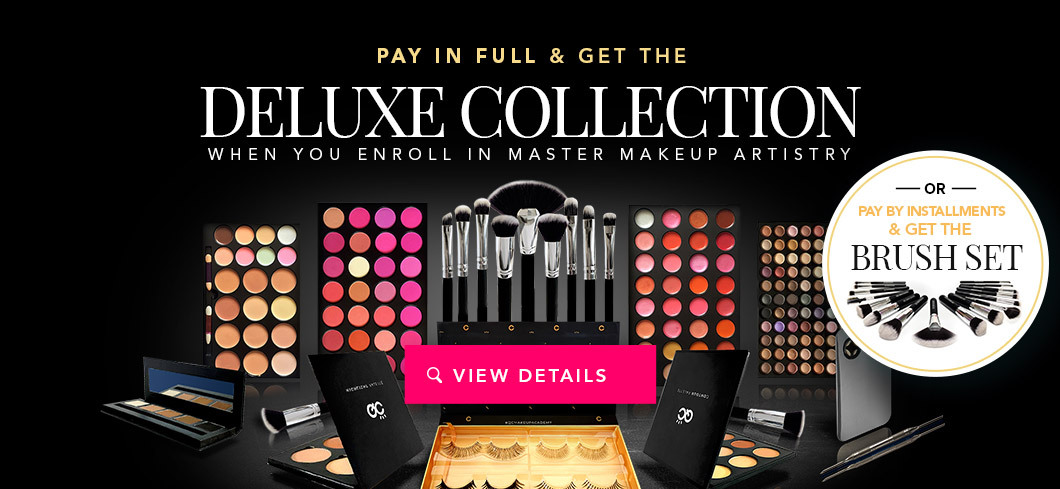
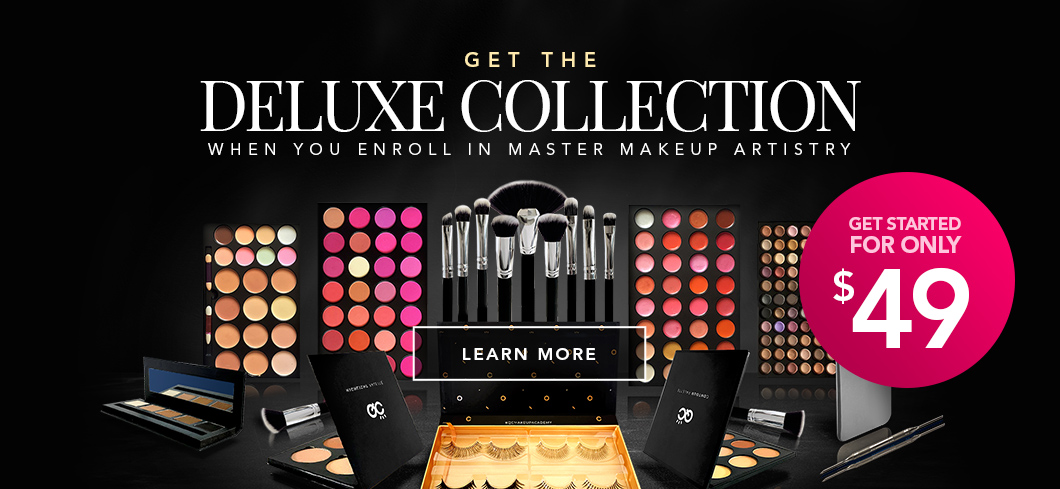
Change popup messages and graphics to show that all MZ students get the deluxe collection

diff --git a/src/pages/makeup/default/fallback/Promo.tsx b/src/pages/makeup/default/fallback/Promo.tsx
@@ -1,14 +1,17 @@
 import React, { ReactElement } from 'react';
 import { Modal, ModalBody, ModalFooter, ModalHeader } from 'reactstrap';
 
+import styles from '../../../../components/coloredList.module.css';
 import { usePopup } from '../../../../hooks/usePopup';
 import { useScreenWidthContext } from '../../../../hooks/useScreenWidthContext';
+import { useStateContext } from '../../../../hooks/useStateContext';
 
 const backgroundColor = 'black';
 
 export const MakeupFallbackPromo = (): ReactElement => {
   const screenWidth = useScreenWidthContext();
   const [ popup, togglePopup ] = usePopup(false);
+  const { price } = useStateContext();
 
   const desktop = screenWidth >= 576;
 
@@ -17,13 +20,13 @@ export const MakeupFallbackPromo = (): ReactElement => {
   let height: number;
 
   if (desktop) {
-    image = require('./desktop.jpg');
+    image = price?.currency.code === 'GBP' ? require('./desktop-uk.jpg') : require('./desktop.jpg');
     width = 1060;
     height = 489;
   } else {
-    image = require('./mobile.jpg');
+    image = price?.currency.code === 'GBP' ? require('./mobile-uk.jpg') : require('./mobile.jpg');
     width = 600;
-    height = 690;
+    height = 589;
   }
 
   return (
@@ -36,13 +39,29 @@ export const MakeupFallbackPromo = (): ReactElement => {
       <Modal isOpen={popup} toggle={togglePopup}>
         <ModalHeader toggle={togglePopup}>DELUXE Collection</ModalHeader>
         <ModalBody>
-          <p>Get the entire <strong>DELUXE Kit with 17-piece brush set</strong> when you enroll in <strong>Master Makeup Artistry</strong> and pay in full. Master Makeup Artist students who choose the installment plan will receive the <strong>17-piece brush set</strong>.</p>
+          <p>Get the entire <strong>DELUXE Kit with 17-piece brush set</strong> when you enroll in <strong>Master Makeup Artistry</strong>.</p>
           <p>Graduate as a Master International Makeup Professional™ (MIMP™) in just a few short months and build your beauty empire!</p>
-          <div style={{ display: 'flex', justifyContent: 'center' }}><img src={require('./enrollment-pop-up.jpg')} className="img-fluid" /></div>
+          <div style={{ display: 'flex', flexDirection: 'column', alignItems: 'center' }}>
+            <div>
+              <img src={require('../../../../images/deluxe-kit-numbers-no-description.jpg')} width="650" height="1056" className="img-fluid" />
+            </div>
+            <ol className={styles.coloredList}>
+              <li>17-piece professional brush set</li>
+              <li>88-shade eye shadow palette</li>
+              <li>32-shade lip palette</li>
+              <li>28-shade blush palette</li>
+              <li>20-shade conceal &amp; correct palette</li>
+              <li>9-shade contour palette</li>
+              <li>4-shade highlight palette</li>
+              <li>5-shade eyebrow palette</li>
+              <li>4 sets of faux lashes</li>
+              <li>Pro palette &amp; spatula</li>
+            </ol>
+          </div>
         </ModalBody>
         <ModalFooter>
           <p className="small">Your items will be automatically sent to you after you have submitted Unit A of the course in the Online Student Center. Items in the kit are subject to change.</p>
-          <p className="small mb-0">The DELUXE kit is not required for you to complete your assignments and will not determine your success in the course.</p>
+          <p className="small mb-0">The DELUXE Collection is not required for you to complete your assignments and will not determine your success in the course.</p>
         </ModalFooter>
       </Modal>
     </section>

diff --git a/src/components/Payment/VisualPaymentPlans/kits.tsx b/src/components/Payment/VisualPaymentPlans/kits.tsx
@@ -144,7 +144,7 @@ export const courseKits: CourseKit[] = [
         borderColor: '#999',
       },
       part: {
-        src: require('./images/mz/brush-set-384.jpg'),
+        src: require('./images/mz/deluxe-kit-white-384.jpg'),
         backgroundColor: 'white',
         buttonVariant: 'primary',
       },
@@ -152,23 +152,18 @@ export const courseKits: CourseKit[] = [
       buttonOffset: { xs: undefined, sm: undefined, md: 62, lg: 49, xl: 68 },
     },
     fullBullets: [ <strong key={0}>Bonus DELUXE Kit</strong>, <strong key={1}>Bonus 17-piece brush set</strong> ],
-    partBullets: [ <strong key={0}>Bonus 17-piece brush set</strong> ],
+    partBullets: [ <strong key={0}>Bonus DELUXE Kit</strong>, <strong key={1}>Bonus 17-piece brush set</strong> ],
     details: (
       <DetailsPopup
         title="Deluxe Collection" footerText={(
           <div className="text-start">
-            <p className="small"><span className="text-primary">*</span> Deluxe Collection shipping schedule:</p>
-            <ul className="small">
-              <li><p>Students who choose the Pay-in-Full option will receive the entire Deluxe Collection after submitting Unit A.</p></li>
-              <li><p>Students who choose the Installment Plan will receive the 17-piece brush set after submitting Unit A and will receive the rest of the Deluxe Collection once tuition is paid in full.</p></li>
-            </ul>
-            <p className="small">The Deluxe Collection is not required for you to complete your assignments and will not determine your success in the course.</p>
-            <p className="small mb-0">Items in the Deluxe Collection are subject to change.</p>
+            <p className="small">Your items will be automatically sent to you after you have submitted Unit A of the course in the Online Student Center. Items in the kit are subject to change.</p>
+            <p className="small mb-0">The DELUXE Collection is not required for you to complete your assignments and will not determine your success in the course.</p>
           </div>
         )}
       >
         <div style={{ display: 'flex', flexDirection: 'column', alignItems: 'center' }}>
-          <p>Master Makeup Artistry students receive the Deluxe Collection!<span className="text-primary">*</span></p>
+          <p>Get the entire <strong>DELUXE Kit with 17-piece brush set</strong> when you enroll in <strong>Master Makeup Artistry</strong>.</p>
           <div>
             <img src={require('../../../images/deluxe-kit-numbers-no-description.jpg')} width="650" height="1056" className="img-fluid" />
           </div>
